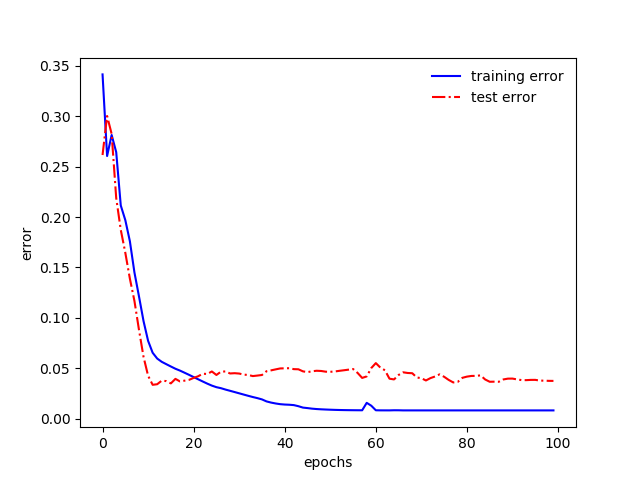
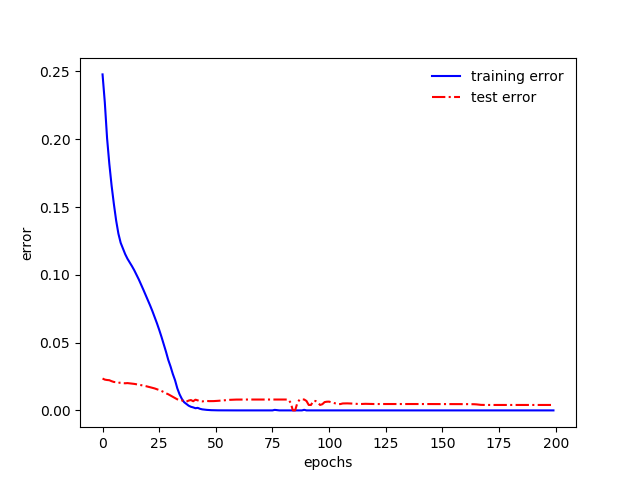
-

diff --git a/nnetwork/test_rete.py b/nnetwork/test_rete.py
@@ -21,19 +21,19 @@ def __main__():
     filename = 'ML-CUP17-TR.csv'
     x, target_values = ML_CUP_Dataset.load_ML_dataset(filename)
 
-    #x = x[:, 0:5]
-    #target_values = target_values[:, 0:5]
+    #x = x[:, 0:500]
+    #target_values = target_values[:, 0:500]
 
     unit_lay=[10,10,10,2]
-    af = [ 'relu', 'relu', 'relu', 'linear']
-    neural_net = NeuralNetwork.create_advanced_net(4, unit_lay, af, "xavier")
+    af = ['tanh', 'tanh', 'tanh', 'linear']
+    neural_net = NeuralNetwork.create_advanced_net(4, unit_lay, af,"no")
     #neural_net = NeuralNetwork.create_network(5, 10, 3, 2, 'relu', slope=1)
 
     train_par = {
         'eta': 0.01,
         'alfa': 0.9,
         'lambd': 0.01,
-        'epochs': 50,
+        'epochs': 500,
         'threshold': 0.0,
         'loss': 'mean_euclidean'
     }
@@ -43,7 +43,7 @@ def __main__():
     trainer._train_no_test(x, target_values, save=True)
     #   trainer.train_rprop_no_test(x, target_values)
 
-    print("output", neural_net.output_layer.output)
+    print(neural_net.output_layer.output)
 
 
 '''
